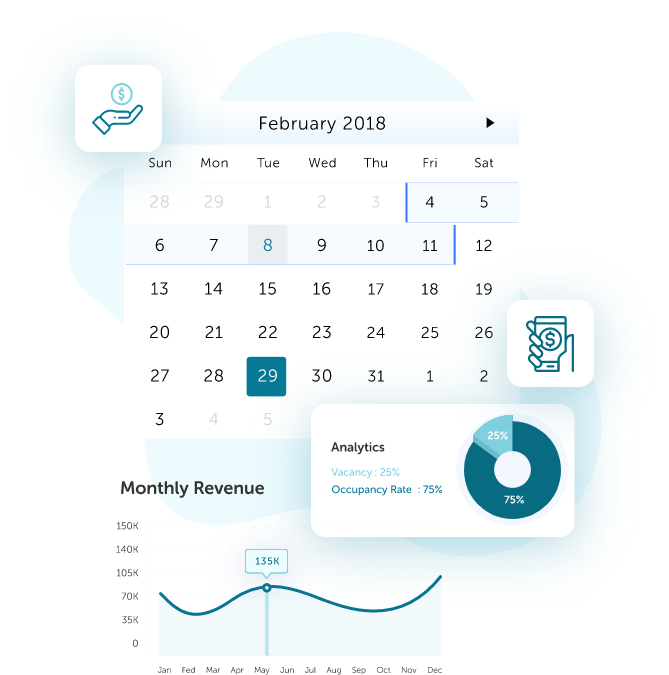
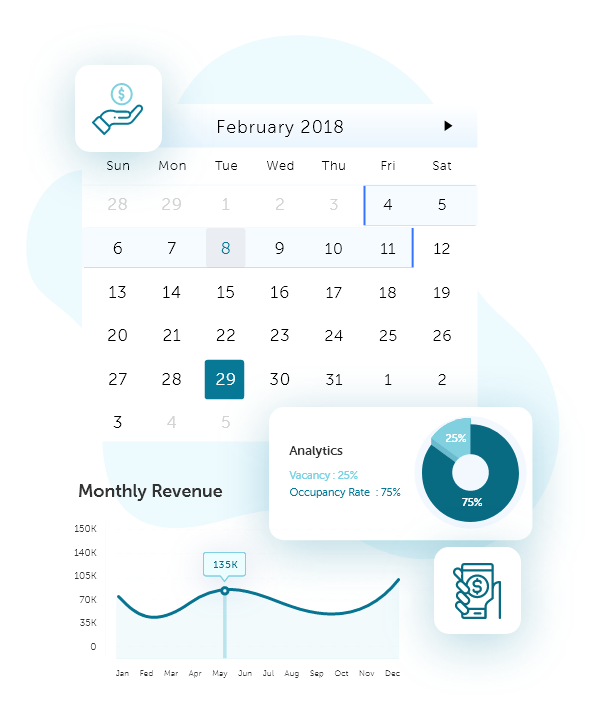
feature: implement mobile responsiveness on ManagemenetSection

diff --git a/src/pages/LandingPage/ManagementSection.jsx b/src/pages/LandingPage/ManagementSection.jsx
@@ -34,33 +34,33 @@ export const ManagementSection = () => {
   };
 
   return (
-    <div className="flex flex-col lg:flex-row items-start lg:items-end justify-center gap-[28px] mb-[150px] mx-[50px]">
-      <div className="lg:max-w-[525px] w-full">
+    <div className="text-center lg:text-left max-w-[1140px] px-[24px] grid grid-rows-[auto_auto] lg:grid-cols-[1fr_1fr] gap-[50px] lg:gap-[24px] lg:items-end mx-auto">
+      <div className="">
         <div className="text-black text-[16px] leading-[19px] font-Museo-Sans-Rounded-900 mb-[6px] uppercase">
           {DESCRIPTION}
         </div>
-        <div className="text-[40px] leading-[48px] font-Museo-Sans-Rounded-900 mb-[42px]">
+        <div className="text-[32px] lg:text-[40px] leading-[38px] lg:leading-[48px] font-Museo-Sans-Rounded-900 mb-[36px]">
           <span className="text-dark">{TITLE.normal}</span>{' '}
           <span className="text-primary">{TITLE.emphasis}</span>
         </div>
-        <div className="text-[15px] text-gray leading-[22px] font-Museo-Sans-Rounded-500 mb-[50px] column-count-2">
+        <div className="text-[20px] lg:text-[15px] leading-[30px] lg:leading-[22px] text-gray font-Museo-Sans-Rounded-500 lg:mb-[60px] column-count-2 inline-block">
           {LIST.map((item, itemIndex) => (
-            <div className="flex items-start mb-[28px]" key={itemIndex}>
+            <div className="flex items-start mb-[22px] text-left" key={itemIndex}>
               <img className="mr-[22px]" src={CheckMarkSVG} alt="check-mark" />
-              {item}
+              <span>{item}</span>
             </div>
           ))}
         </div>
 
         <button
-          className="hidden lg:block py-[25px] px-[92px] bg-blue-light text-primary font-Museo-Sans-Rounded-900 text-[15px] rounded-[34px] shadow-primary hover:contrast-125 uppercase"
+          className="hidden lg:block py-[25px] px-[92px] bg-blue-light-500 text-primary font-Museo-Sans-Rounded-900 text-[15px] rounded-[34px] shadow-primary hover:contrast-125 uppercase"
           onClick={handleSignup}
         >
           Sign up
         </button>
       </div>
 
-      <div className="-mr-[90px] -ml-[90px] lg:ml-0 w-[calc(100%+140px)] lg:w-auto">
+      <div className="-mx-[24px] lg:mx-0">
         <img src={ManagementImage} className="w-full" alt="management" />
       </div>
     </div>

diff --git a/src/pages/LandingPage/VacancySection.jsx b/src/pages/LandingPage/VacancySection.jsx
@@ -36,7 +36,7 @@ export const VacancySection = () => {
           <div className="text-primary">{TITLE.emphasis}</div>
           <div className="text-dark">{TITLE.normal}</div>
         </div>
-        <div className="text-[20px] lg:text-[15px] leading-[30px] lg:leading-[22px] text-gray font-Museo-Sans-Rounded-500 mb-[30px] inline-block">
+        <div className="text-[20px] lg:text-[15px] leading-[30px] lg:leading-[22px] text-gray font-Museo-Sans-Rounded-500 lg:mb-[30px] inline-block">
           {LIST.map((item, itemIndex) => (
             <div className="flex items-start mb-[28px] text-left" key={itemIndex}>
               <img className="mr-[22px]" src={CheckMarkSVG} alt="check-mark" />
